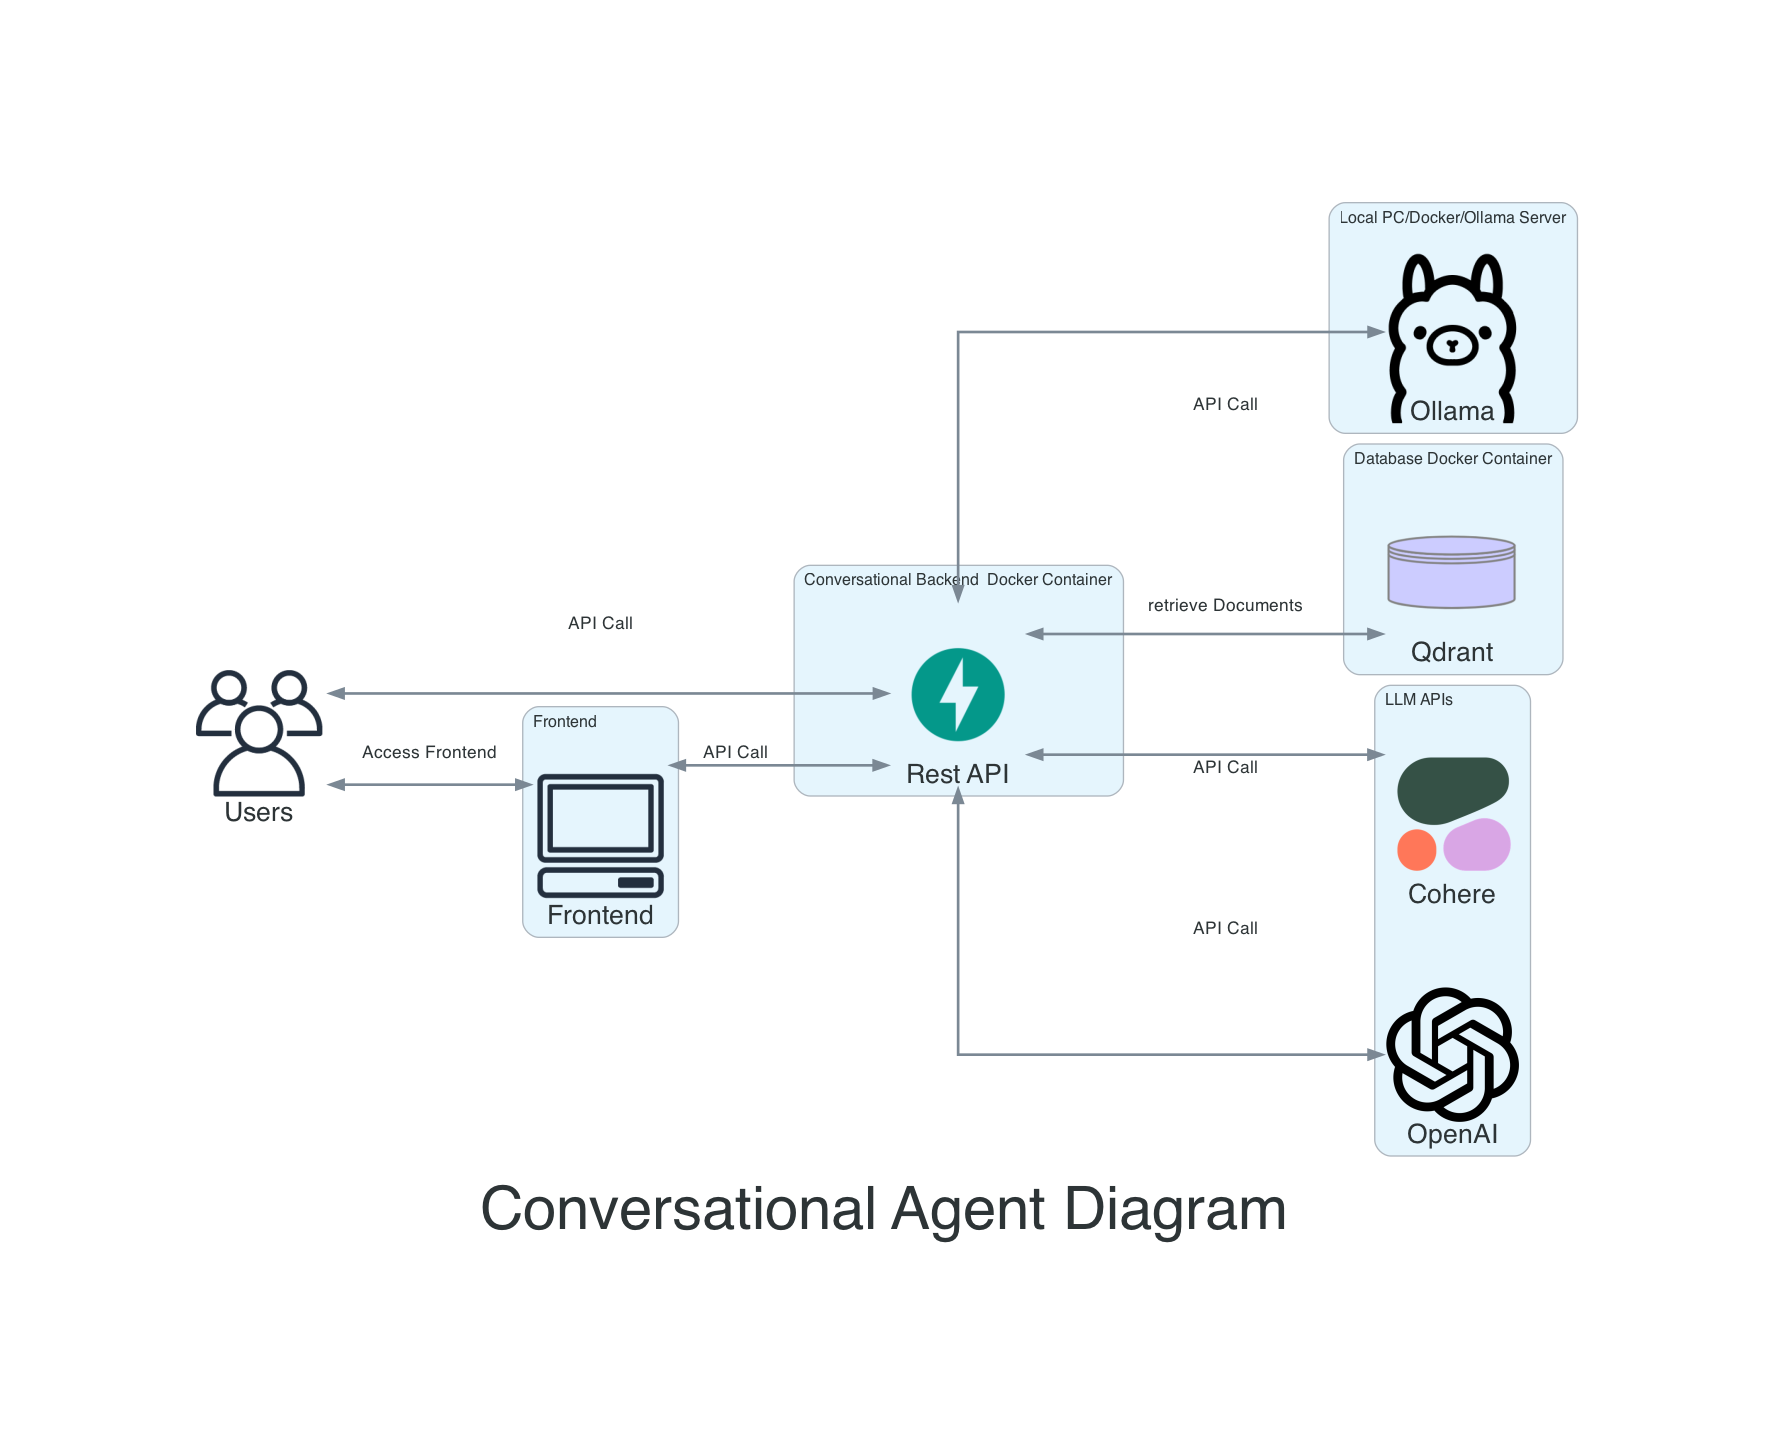
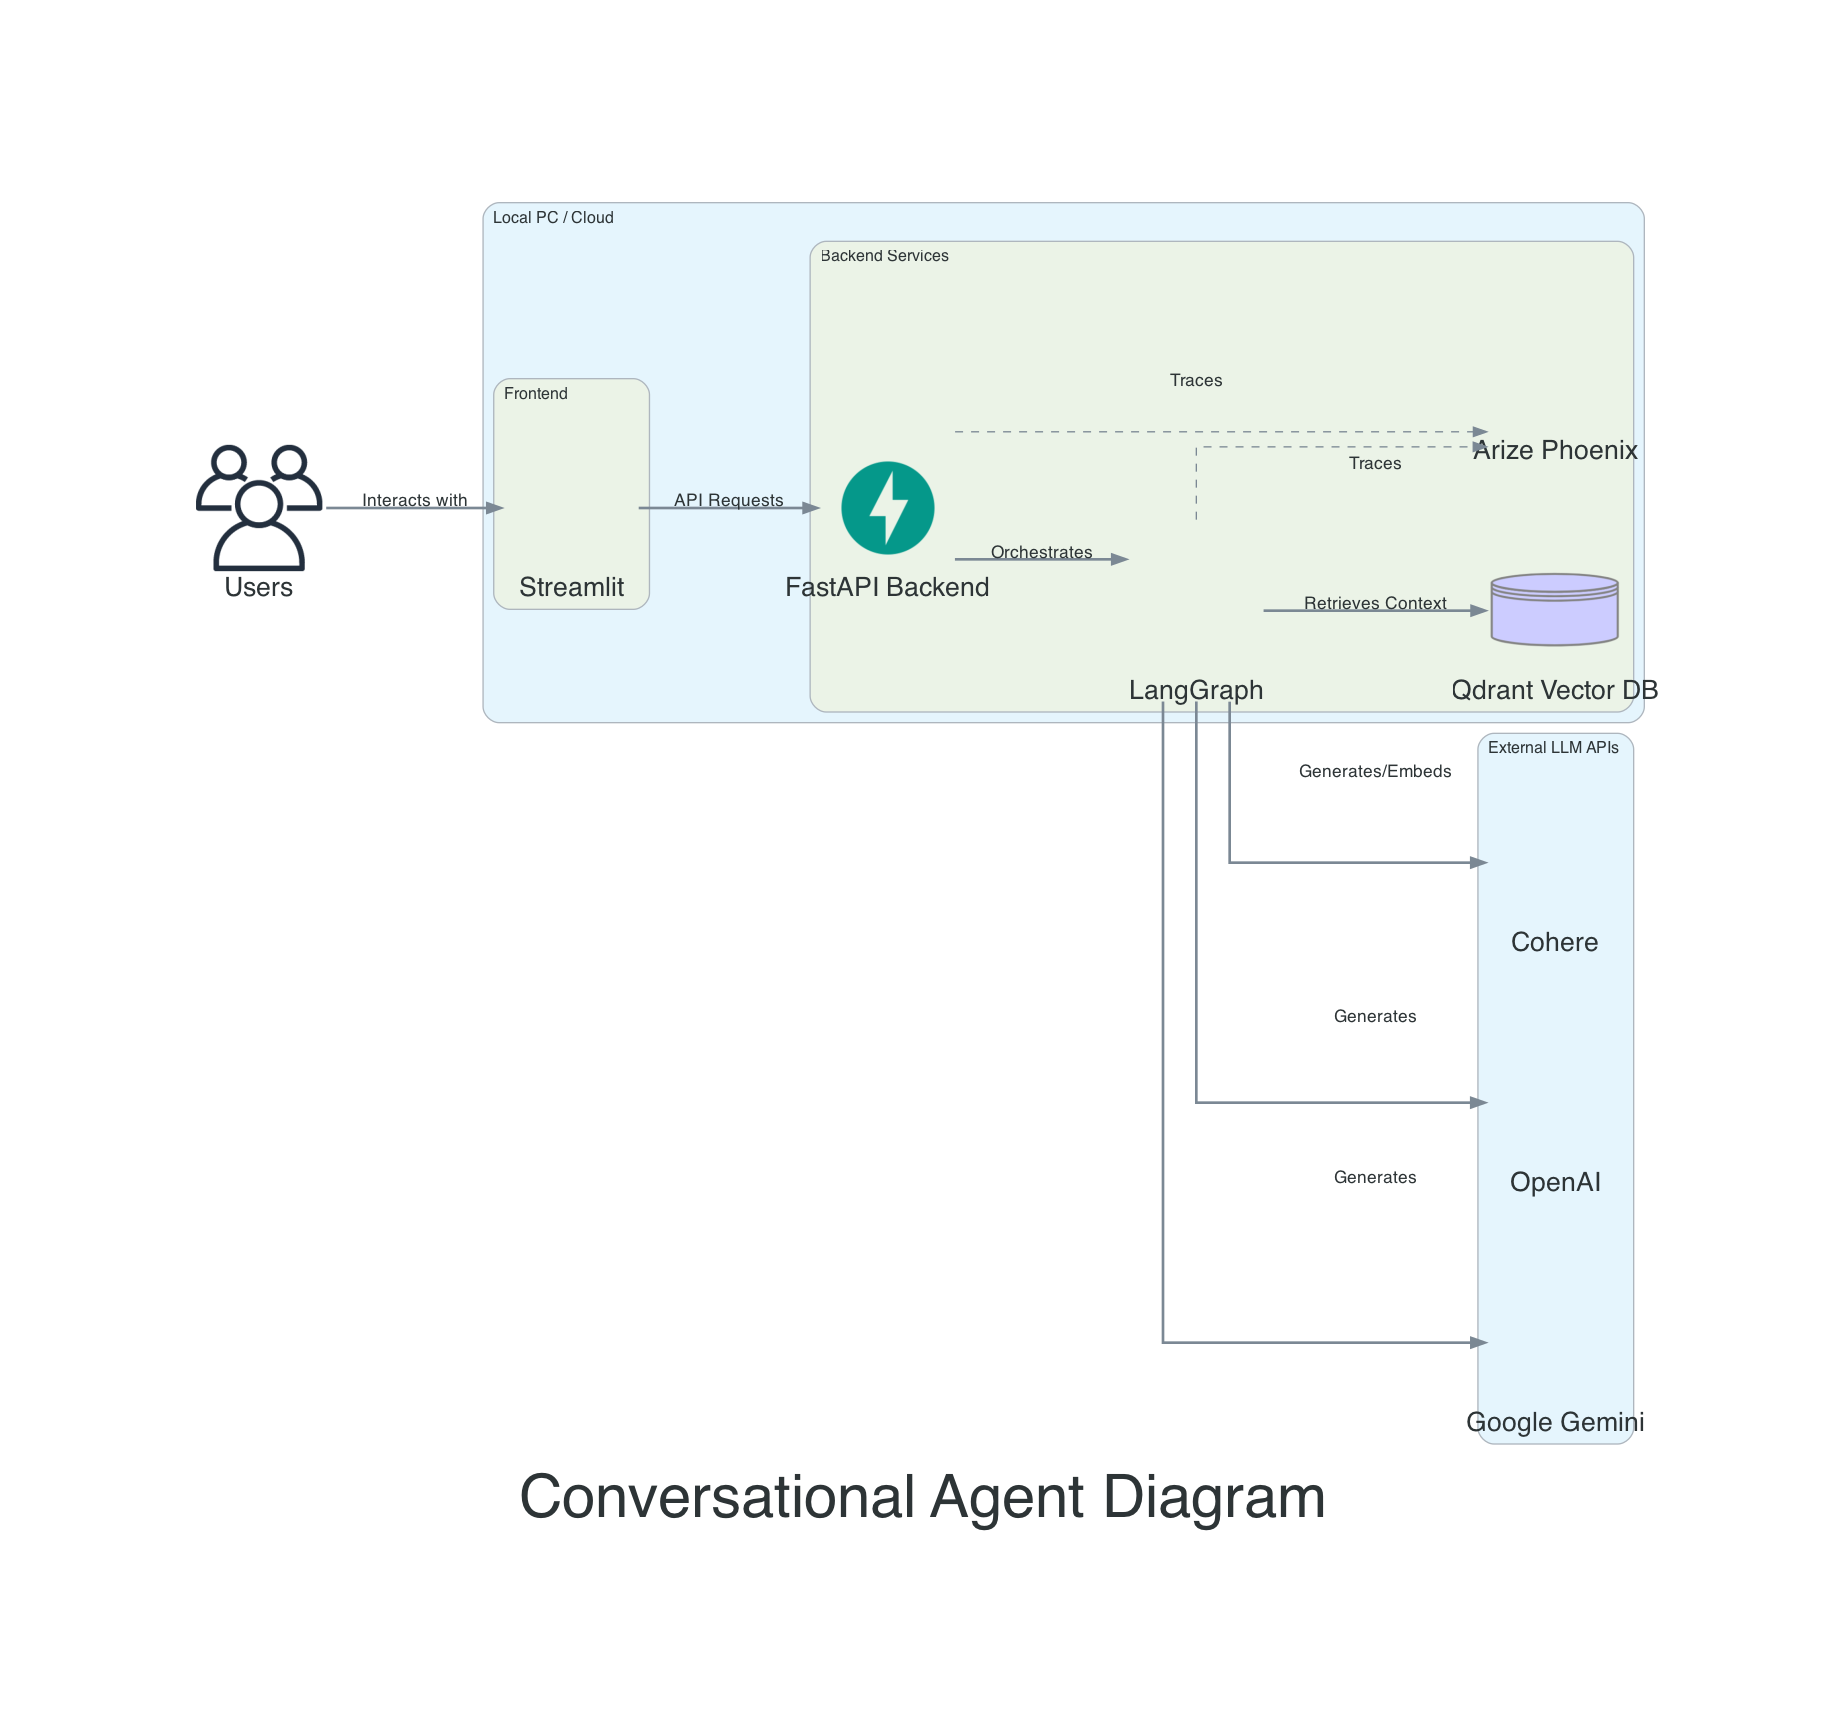
docs(Archtitecture): Updating the architecture (#127)

diff --git a/src/agent/scripts/generate_diagrams.py b/src/agent/scripts/generate_diagrams.py
@@ -1,8 +1,10 @@
 """Generate a diagram of the architecture."""
 
+from pathlib import Path
+
 from diagrams import Cluster, Diagram, Edge
 from diagrams.custom import Custom
-from diagrams.onprem.client import Client, Users
+from diagrams.onprem.client import Users
 from diagrams.programming.flowchart import Database
 from diagrams.programming.framework import FastAPI
 
@@ -10,31 +12,47 @@ graph_attr = {"fontsize": "45", "bgcolor": "white"}
 node_attr = {"fontsize": "20"}
 edge_attr = {"fontsize": "32"}
 
+resources_dir = Path(__file__).parent / "resources"
+
 with Diagram(
-    "Conversational Agent Diagram", show=False, graph_attr=graph_attr, edge_attr=edge_attr, node_attr=node_attr, outformat="png", filename="resources/Architecture"
+    "Conversational Agent Diagram",
+    show=False,
+    graph_attr=graph_attr,
+    edge_attr=edge_attr,
+    node_attr=node_attr,
+    outformat="png",
+    filename=str(resources_dir / "Architecture"),
 ):
-    with Cluster("Local PC/Docker/Ollama Server"):
-        ollama = Custom("Ollama", "../src/agent/scripts/resources/ollama.png")
-    with Cluster("Database Docker Container"):
-        db = Database("Qdrant")
+    with Cluster("Local PC / Cloud"):
+        with Cluster("Frontend"):
+            streamlit = Custom("Streamlit", str(resources_dir / "streamlit.png"))
 
-    with Cluster("Conversational Backend  Docker Container"):
-        fastapi = FastAPI("Rest API")
+        with Cluster("Backend Services"):
+            fastapi = FastAPI("FastAPI Backend")
+            langgraph = Custom("LangGraph", str(resources_dir / "langchain.png"))
+            qdrant = Database("Qdrant Vector DB")
+            phoenix = Custom("Arize Phoenix", str(resources_dir / "phoenix.png"))
 
-        fastapi >> Edge(label="API Call", reverse=True, style="bold") >> ollama
-        fastapi >> Edge(label="retrieve Documents", reverse=True, style="bold") >> db
-
-    with Cluster("Frontend"):
-        client = Client("Frontend")
-
-    with Cluster("LLM APIs"):
-        cohere = Custom("Cohere", "../src/agent/scripts/resources/cohere.png")
-        openai = Custom("OpenAI", "../src/agent/scripts/resources/openai.png")
+    with Cluster("External LLM APIs"):
+        cohere = Custom("Cohere", str(resources_dir / "cohere.png"))
+        openai = Custom("OpenAI", str(resources_dir / "openai.png"))
+        gemini = Custom("Google Gemini", str(resources_dir / "gemini.png"))
 
     users = Users("Users")
 
-    users >> Edge(label="Access Frontend", reverse=True, style="bold") >> client >> Edge(label="API Call", reverse=True, style="bold") >> fastapi
-    users >> Edge(label="API Call", reverse=True, style="bold") >> fastapi
+    # User interactions
+    users >> Edge(label="Interacts with", style="bold") >> streamlit
+    streamlit >> Edge(label="API Requests", style="bold") >> fastapi
 
-    fastapi >> Edge(label="API Call", reverse=True, style="bold") >> cohere
-    fastapi >> Edge(label="API Call", reverse=True, style="bold") >> openai
+    # Backend flow
+    fastapi >> Edge(label="Orchestrates", style="bold") >> langgraph
+    langgraph >> Edge(label="Retrieves Context", style="bold") >> qdrant
+
+    # LLM Calls
+    langgraph >> Edge(label="Generates/Embeds", style="bold") >> cohere
+    langgraph >> Edge(label="Generates", style="bold") >> openai
+    langgraph >> Edge(label="Generates", style="bold") >> gemini
+
+    # Observability
+    fastapi >> Edge(label="Traces", style="dashed") >> phoenix
+    langgraph >> Edge(label="Traces", style="dashed") >> phoenix
